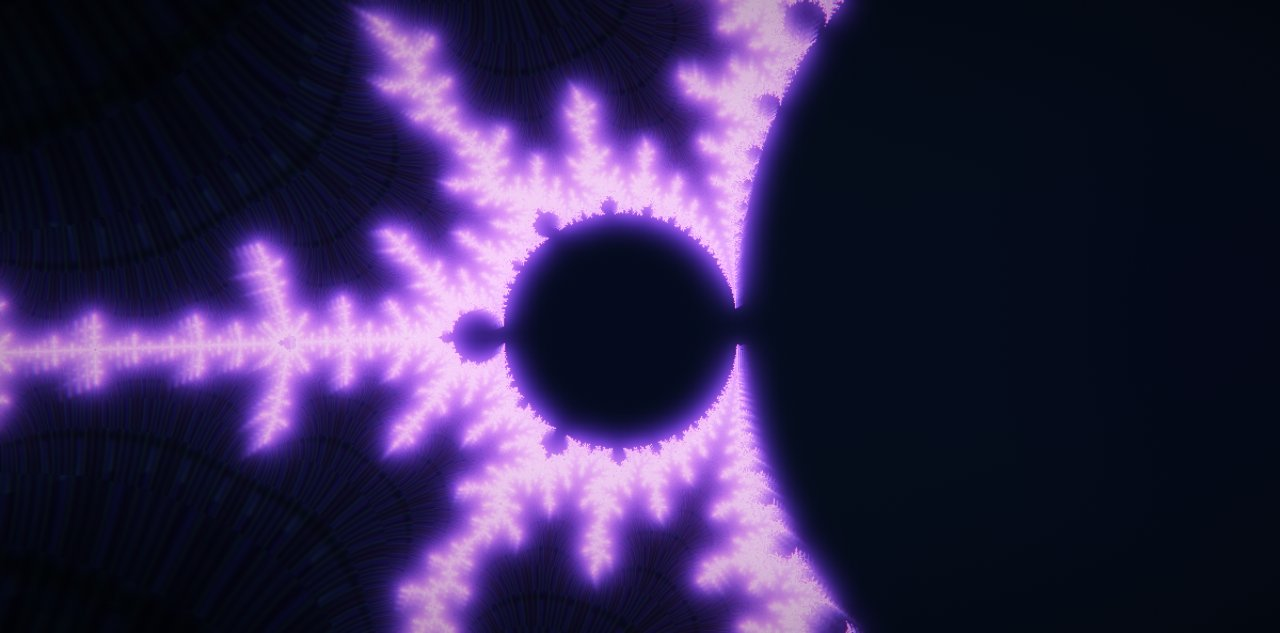
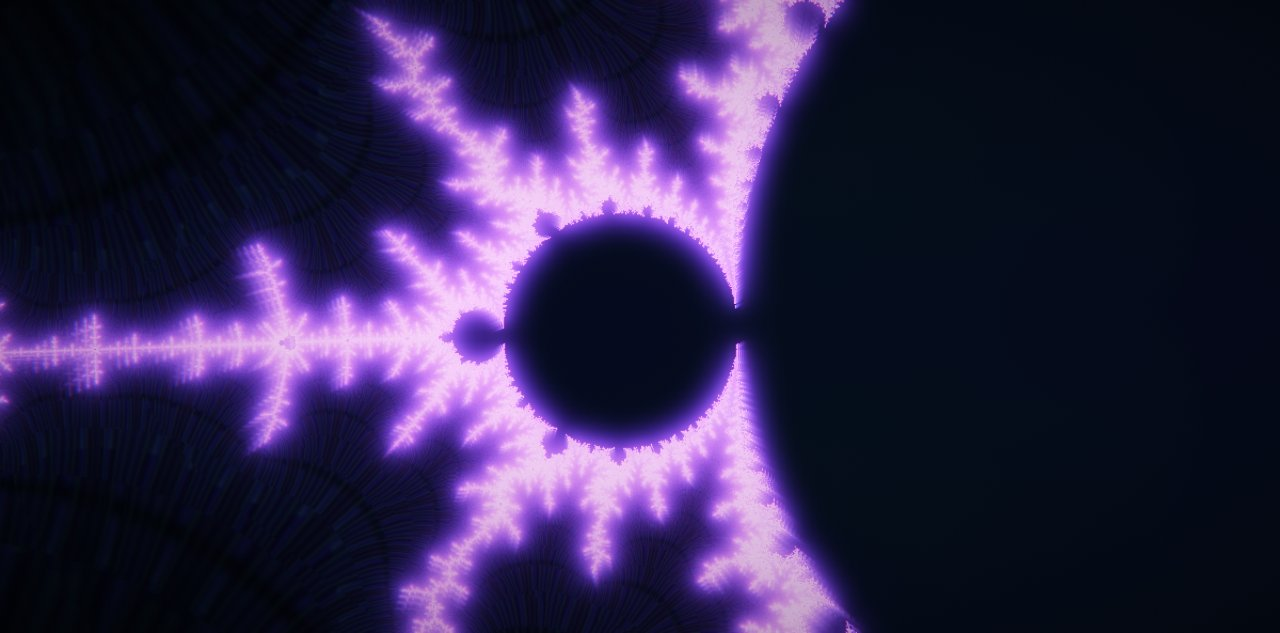
§16 accepted: FEIGEN field/colour split + zoom ladder (1.2–1.7 ms at every depth, was 8–22; Q trace after = none), ride-alongs POLYTOPE pole gate, DUST 4×12×48 fibres, NAV interior smoulder on N.par; GPU=1 tools/accept.sh 0 FAIL (accept-16.txt: parity fake 0 diff, mixs md5 a6e2b8cd unchanged, hist r

diff --git a/docs/DECISIONS.md b/docs/DECISIONS.md
@@ -753,4 +753,16 @@ Sources are read-only: `~/Documents/Kraftek/Cardioid/cardioid3.html` (v3, truste
   threshold is not decidable from three medians on a shared machine (four repeats of the brief's command spread 0.09–
   1.13 ms around a 0.95 threshold while sibling workers' Chromes ran); the brief's t6/t14 shots run at tier 2 and could
   not see the change (the `CLOCK=1` pinned-`q` pair could).
+  *NAV's interior smoulder* (`brief-nav-smoulder.md`, `nav-smoulder.md`): §15's one thing JULIA had. `uPar` = `N.par`
+  (the multiplier chart's approach to a parabolic root, `sstep(0.8, 0.98, ρ)`) uploaded from `draw`; in `FS_JULIA`'s
+  known-cycle branch `col += pal(.5 + .1·bands)·par²·(.35 + .3·bass)·(.3 + .7·bands)` and in the plain interior
+  `pal(.45)·par²·(.16 + .2·bass)` — retuned from the brief's bass-dominant suggestion because `MS.bass` is 0 through
+  the fake timeline's build, exactly where `par` rises (a bass coefficient collapsed to 0.15 against an interior base
+  of 0.03–0.13). `nav.js` untouched: `parity.js fake` 0 diff / 72; monitor 60 s `viol []`; frames with `par` 0
+  (f360 `92438f2d…`, f840 `d697789c…`) **byte-identical** before and after, f660/f720/f760 (`par` 0.46/0.78/0.19)
+  differ; `accept/v0.2/nav-smoulder.jpg` (f760 with `par` forced to 1 through a wrapped `update` — provably inert, the
+  same forcing on the old build is byte-identical to its own baseline): the dark silhouette lights from within, Koenigs
+  bands as smouldering rings, centre-crop mean 17/38/32 → 33/77/61, nothing clips, filaments / rays / PiP pixel-
+  identical. `par` never exceeds 0.79 on the fake timeline. Friction: `CARD.bench` on NAV is confounded by `Q.iter`
+  adapting between calls unless `q` is pinned first (HARNESS says so now).
 

diff --git a/docs/HARNESS.md b/docs/HARNESS.md
@@ -205,7 +205,8 @@ with the help open at frame 290 `[SC.cur, SC.next, SC.m]` is the same triple and
   default `n` is 40 for a quick look; a number you report needs `n ≥ 300`, see below) ·
   `CARD.benchTransition(n=300)` → the same per registered transition ("Transition" above).
   Headless timers quantise to ~1/24 ms: use `n ≥ 300`, run it three times, read the median; below ~0.1 ms it only says "cheap".
-  The first call after any pause is cold (0.5–1.5 ms, shader warm-up) — discard it.
+  The first call after any pause is cold (0.5–1.5 ms, shader warm-up) — discard it. Pin `q` first (above): a scene
+  that reads `Q.iter` (NAV) otherwise changes its own iteration count between calls as headless pacing sinks `q`.
 - `CARD.nonFinite()` → keys of MS holding a non-finite number (must be `[]`).
 
 ## Continuity monitor (NAV invariant)
